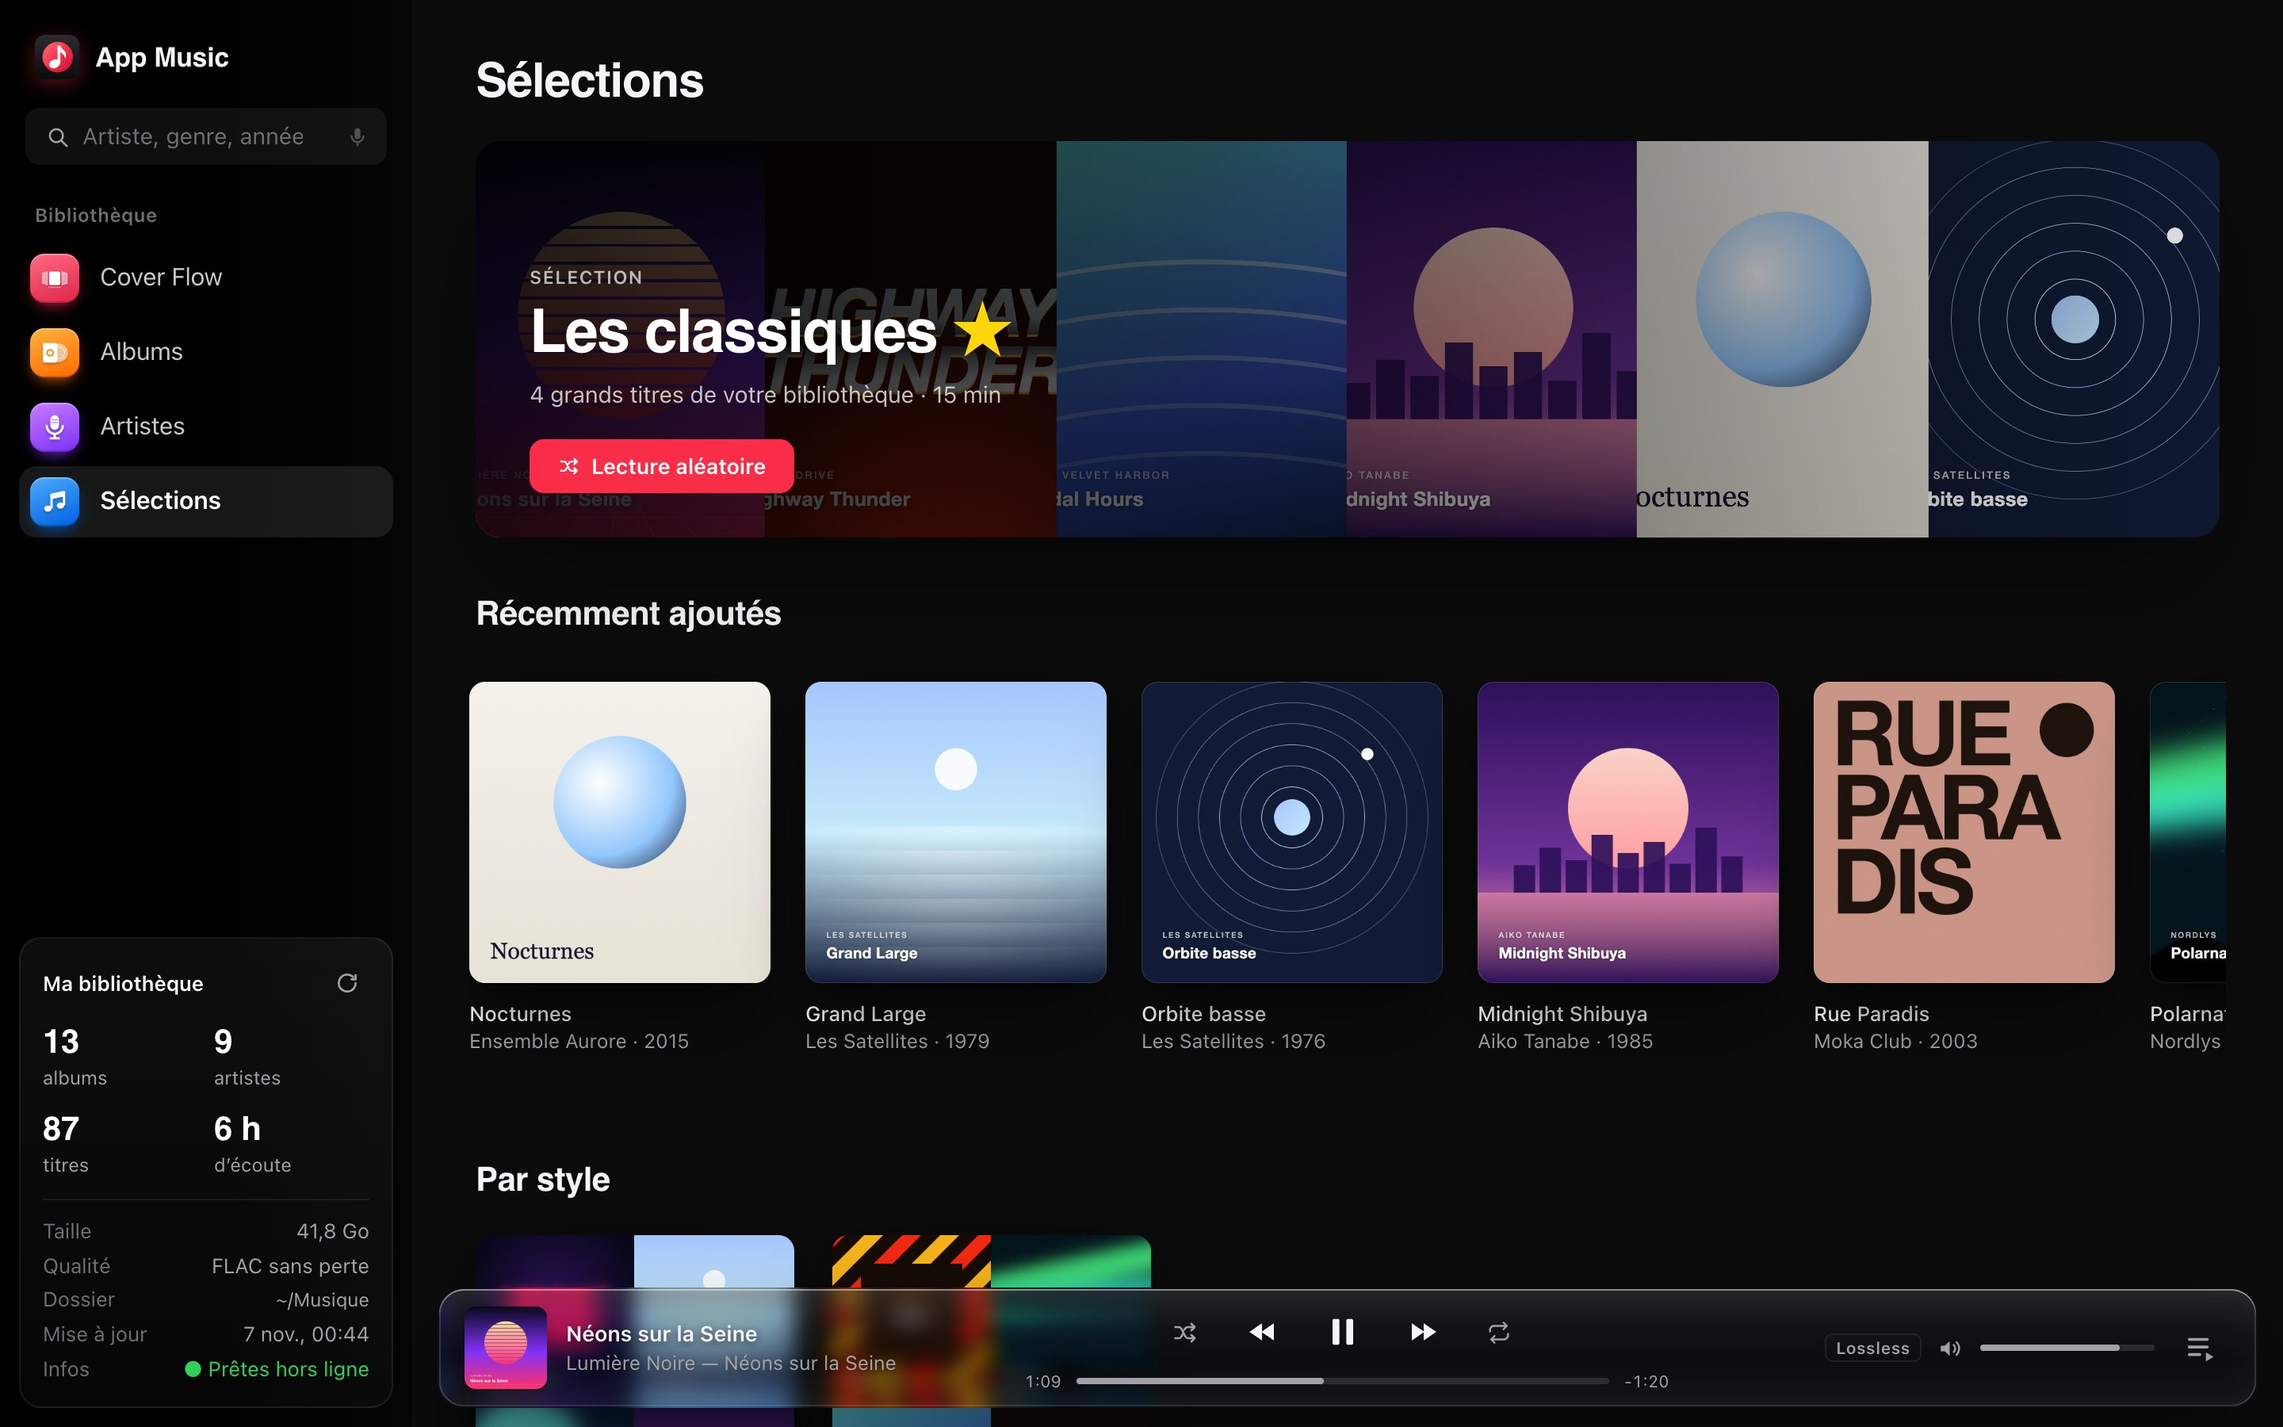
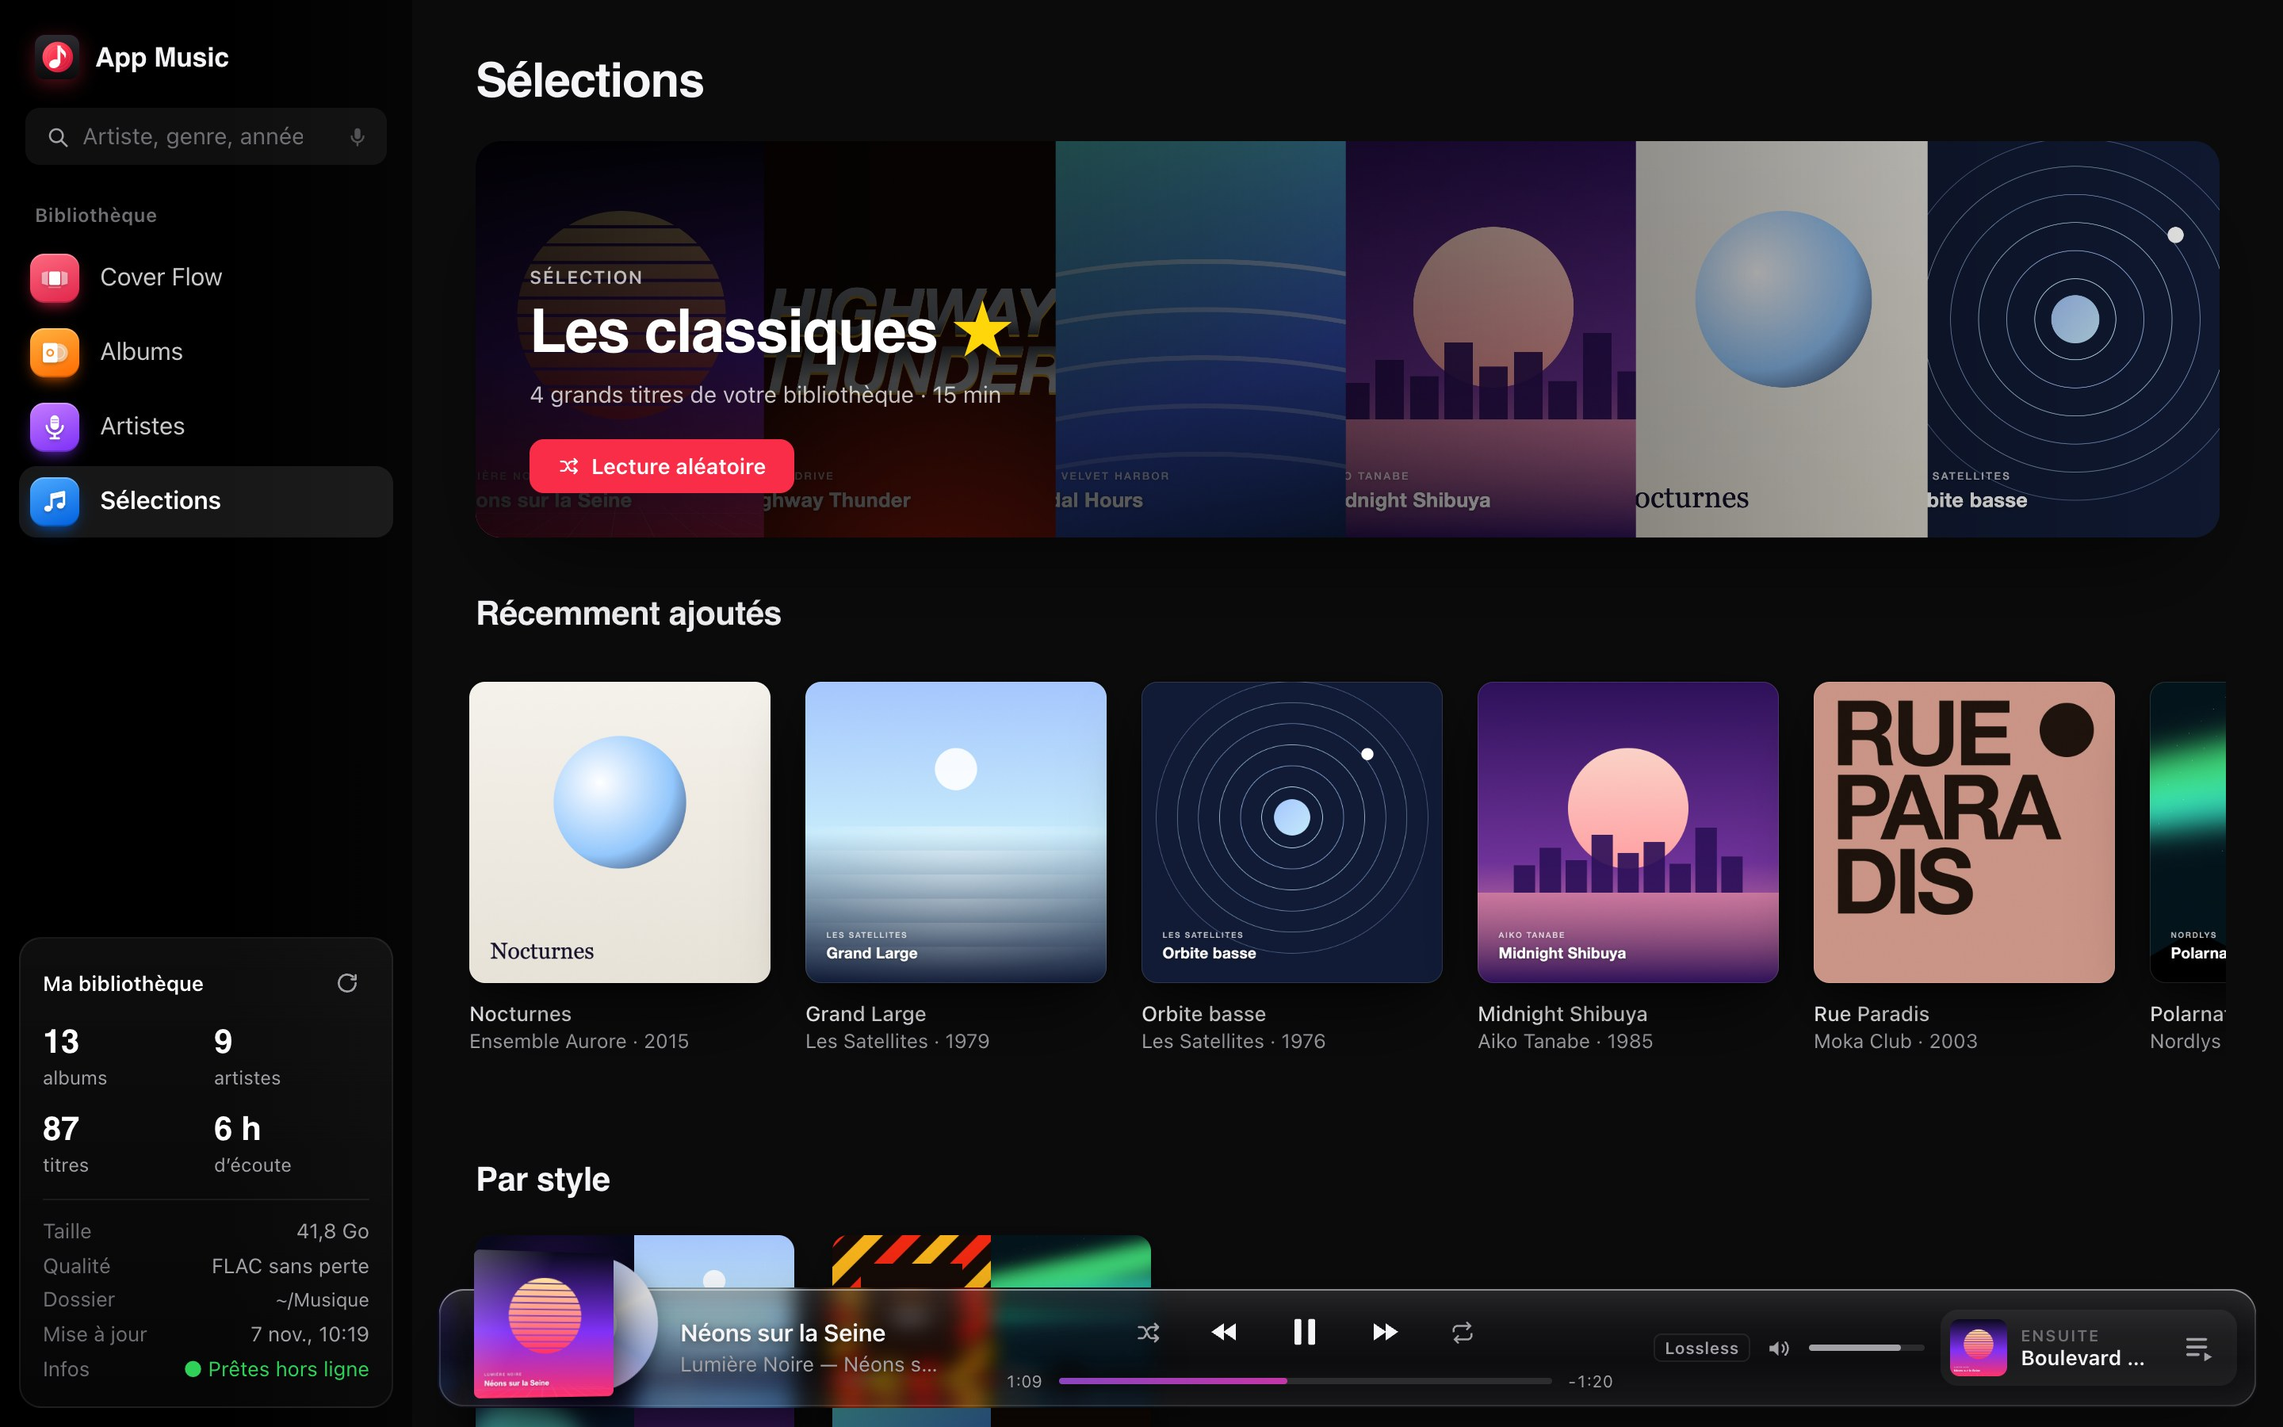
Nouveau lecteur : boîtier CD qui dépasse, progression aux couleurs de la pochette, carte « Ensuite »

diff --git a/public/app.js b/public/app.js
@@ -53,6 +53,42 @@ async function loadLibrary() {
   return r;
 }
 
+// ---------- Deux couleurs vives d'une pochette (haut / bas), pour la barre de progression ----------
+const gradCache = new Map();
+function vivid([r, g, b]) {
+  // garde la teinte, pousse saturation et luminosité pour rester visible sur le verre sombre
+  const mx = Math.max(r, g, b), mn = Math.min(r, g, b), l = (mx + mn) / 2;
+  const k = l < 1 ? 1 : 1 + Math.max(0, 0.6 - (mx - mn) / Math.max(mx, 1));
+  let c = [r, g, b].map((v) => l + (v - l) * k);
+  const top = Math.max(...c); if (top < 190) c = c.map((v) => v * 190 / Math.max(top, 1));
+  return c.map((v) => Math.max(0, Math.min(255, Math.round(v))));
+}
+function coverGradient(albumId) {
+  if (gradCache.has(albumId)) return gradCache.get(albumId);
+  const p = new Promise((res) => {
+    const img = new Image();
+    img.onload = () => {
+      const c = document.createElement('canvas'); c.width = c.height = 24;
+      const x = c.getContext('2d', { willReadFrequently: true }); x.drawImage(img, 0, 0, 24, 24);
+      const d = x.getImageData(0, 0, 24, 24).data;
+      const half = (from, to) => {
+        let r = 0, g = 0, b = 0, w = 0;
+        for (let i = from * 96; i < to * 96; i += 4) {
+          const mx = Math.max(d[i], d[i + 1], d[i + 2]), mn = Math.min(d[i], d[i + 1], d[i + 2]);
+          const wt = 0.05 + ((mx - mn) / 255) ** 2 * (mx > 40 ? 4 : 0.5);
+          r += d[i] * wt; g += d[i + 1] * wt; b += d[i + 2] * wt; w += wt;
+        }
+        return vivid([r / w, g / w, b / w]);
+      };
+      res([half(0, 12), half(12, 24)]);
+    };
+    img.onerror = () => res([[161, 161, 166], [161, 161, 166]]);
+    img.src = cover(albumId);
+  });
+  gradCache.set(albumId, p);
+  return p;
+}
+
 // ---------- Couleur dominante d'une pochette ----------
 const colorCache = new Map();
 function dominant(albumId) {
@@ -870,7 +906,7 @@ $('#b-shuffle').onclick = () => {
   }
   syncButtons(); renderQueue();
 };
-$('#b-repeat').onclick = () => { player.repeat = { off: 'all', all: 'one', one: 'off' }[player.repeat]; store.set('repeat', player.repeat); syncButtons(); };
+$('#b-repeat').onclick = () => { player.repeat = { off: 'all', all: 'one', one: 'off' }[player.repeat]; store.set('repeat', player.repeat); syncButtons(); renderNext(); };
 function syncButtons() {
   $('#b-shuffle').classList.toggle('on', player.shuffle);
   const r = $('#b-repeat'); r.classList.toggle('on', player.repeat !== 'off'); r.classList.toggle('one', player.repeat === 'one');
@@ -881,6 +917,8 @@ let npBg = 0;
 function updateNowPlaying(t) {
   const a = A.get(t.albumId);
   $('#p-cover').src = cover(t.albumId);
+  document.body.classList.add('has-track');
+  coverGradient(t.albumId).then(([c1, c2]) => { if (player.current !== t.id) return; const pl = $('#player'); pl.style.setProperty('--pc1', c1.join(' ')); pl.style.setProperty('--pc2', c2.join(' ')); });
   $('#p-title').textContent = t.title;
   $('#p-sub').textContent = `${t.artist} — ${t.album}`;
   const fmt = t.lossless && t.bits ? `Lossless · ${t.bits} bits/${(t.rate / 1000).toLocaleString('fr-FR')} kHz` : t.codec;
@@ -910,7 +948,17 @@ if ('mediaSession' in navigator) {
 }
 
 // File d'attente
+// carte « Ensuite » du lecteur : le prochain titre de la file
+function renderNext() {
+  const nextPos = player.pos + 1 < player.order.length ? player.pos + 1 : player.repeat === 'all' && player.order.length > 1 ? 0 : -1;
+  const t = nextPos >= 0 ? T.get(player.queue[player.order[nextPos]]) : null;
+  $('#p-next').classList.toggle('empty', !t);
+  $('#p-next-title').textContent = t ? t.title : player.queue.length ? 'Fin de la file' : 'Rien en attente';
+  $('#p-next-title').title = t ? `${t.title} — ${t.artist}` : '';
+  const img = $('#p-next-cover'); if (t) img.src = cover(t.albumId); else img.removeAttribute('src');
+}
 function renderQueue() {
+  renderNext();
   const box = $('#queue-list'); if (!player.queue.length) { $('#q-clear').hidden = true; box.innerHTML = '<div class="empty">Rien en attente.<br><small>Glissez des titres ou des albums ici.</small></div>'; return; }
   const item = (i) => { const t = T.get(player.queue[player.order[i]]); return `<div class="q-item ${i === player.pos ? 'current' : ''}" data-q="${i}" tabindex="0"${i > player.pos ? ' draggable="true"' : ''}><img loading="lazy" src="${cover(t.albumId)}" alt=""><div><b>${esc(t.title)}</b><span>${esc(t.artist)}</span></div>${i > player.pos ? `<button class="q-remove" data-remove="${i}" title="Retirer de la file (Suppr)" aria-label="Retirer de la file"><svg viewBox="0 0 24 24"><path d="m7 7 10 10M17 7 7 17" stroke="currentColor" stroke-width="2.2" stroke-linecap="round"/></svg></button>` : ''}</div>`; };
   const upcoming = player.order.slice(player.pos + 1, player.pos + 101).map((_, k) => item(player.pos + 1 + k)).join('');
@@ -982,6 +1030,7 @@ function removeFromQueue(i) {
 }
 $('#b-queue').onclick = () => { const open = $('#queue').classList.toggle('open'); $('#b-queue').classList.toggle('on'); if (open && nav.usingKeys) setTimeout(() => { nav.makeFocusable($('#queue')); nav.focusEl($('#queue .q-item.current') || $('#q-close')); }, 50); };
 $('#q-clear').onclick = () => player.clearUpcoming();
+$('#p-next').onclick = (e) => { if (!e.target.closest('#b-queue')) $('#b-queue').click(); };
 $('#q-close').onclick = () => { $('#queue').classList.remove('open'); $('#b-queue').classList.remove('on'); };
 
 // Plein écran « À l'écoute »

diff --git a/public/styles.css b/public/styles.css
@@ -273,15 +273,29 @@ main:has(.flow) { padding-bottom: 0; overflow: hidden; }
   position: fixed; left: calc(var(--sidebar-w) + 16px); right: 16px; bottom: 12px; height: var(--player-h);
   background: rgba(20, 20, 22, .42); backdrop-filter: blur(22px) saturate(170%); -webkit-backdrop-filter: blur(22px) saturate(170%);
   border: 1px solid rgba(255, 255, 255, .09); border-radius: 16px; box-shadow: 0 20px 50px -14px rgba(0, 0, 0, .7), inset 0 1px 0 rgba(255, 255, 255, .07);
-  display: grid; grid-template-columns: 1fr minmax(320px, 1.3fr) 1fr; align-items: center; gap: 18px; padding: 0 16px 0 10px; z-index: 20;
+  display: grid; grid-template-columns: 1fr minmax(320px, 1.3fr) 1fr; align-items: center; gap: 18px; padding: 0 12px 0 16px; z-index: 20;
 }
 .p-now { display: flex; align-items: center; gap: 12px; min-width: 0; cursor: pointer; border-radius: 10px; padding: 6px; transition: background .2s; }
 .p-now:hover { background: var(--hover); }
-.p-art { width: 52px; height: 52px; border-radius: 7px; overflow: hidden; background: var(--bg-2); flex: none; box-shadow: 0 4px 12px -4px rgba(0, 0, 0, .35); }
+/* boîtier CD qui dépasse du lecteur ; le disque sort en tournant pendant la lecture */
+.p-case { position: relative; width: 118px; height: 56px; flex: none; perspective: 600px; }
+.p-art { position: absolute; left: 0; bottom: -4px; width: 94px; height: 94px; border-radius: 4px; overflow: hidden; background: var(--bg-2); transform: rotateY(18deg); transform-origin: left;
+  box-shadow: 10px 14px 28px -6px rgba(0, 0, 0, .75), inset 5px 0 0 rgba(255, 255, 255, .15); transition: transform .5s var(--ease); }
+.p-art::after { content: ""; position: absolute; inset: 0; background: linear-gradient(115deg, rgba(255, 255, 255, .26), transparent 40%); pointer-events: none; }
 .p-art img { width: 100%; height: 100%; object-fit: cover; }
+.p-art img:not([src]), .p-art img[src=""] { visibility: hidden; }
+.p-now:hover .p-art { transform: rotateY(10deg) translateY(-3px); }
+.p-cd { position: absolute; left: 6px; bottom: 0; width: 86px; height: 86px; border-radius: 50%; opacity: 0;
+  background: conic-gradient(from 30deg, #ddd, #9ad, #fbe, #dfd, #ccc, #9ad, #ddd); box-shadow: 0 6px 16px rgba(0, 0, 0, .5);
+  animation: cd-spin 4s linear infinite paused; transition: left .7s var(--ease), opacity .4s; }
+.p-cd::after { content: ""; position: absolute; left: 50%; top: 50%; width: 20px; height: 20px; margin: -10px; border-radius: 50%; background: #12161b; box-shadow: 0 0 0 7px rgba(255, 255, 255, .55); }
+.has-track .p-cd { opacity: 1; }
+.is-playing .p-cd { left: 30px; animation-play-state: running; }
+@keyframes cd-spin { to { transform: rotate(360deg); } }
+@media (prefers-reduced-motion: reduce) { .p-cd { animation: none; } }
 .p-meta { min-width: 0; }
-.p-title { font-size: 13.5px; font-weight: 600; white-space: nowrap; overflow: hidden; text-overflow: ellipsis; }
-.p-sub { font-size: 12.5px; color: var(--text-2); white-space: nowrap; overflow: hidden; text-overflow: ellipsis; }
+.p-title { font-size: 15px; letter-spacing: -.01em; font-weight: 600; white-space: nowrap; overflow: hidden; text-overflow: ellipsis; }
+.p-sub { font-size: 13px; color: var(--text-2); white-space: nowrap; overflow: hidden; text-overflow: ellipsis; }
 .p-center { display: flex; flex-direction: column; align-items: center; gap: 4px; }
 .p-controls { display: flex; align-items: center; gap: 16px; }
 .icon-btn { width: 32px; height: 32px; display: grid; place-items: center; border-radius: 50%; color: var(--text); transition: transform .15s, color .2s, background .2s; position: relative; }
@@ -309,7 +323,19 @@ main:has(.flow) { padding-bottom: 0; overflow: hidden; }
 .slider:hover .slider-knob, .slider.drag .slider-knob { opacity: 1; transform: scale(1); }
 .p-right { display: flex; align-items: center; justify-content: flex-end; gap: 10px; }
 .vol-ic { width: 17px; height: 17px; color: var(--text-2); flex: none; }
-.slider.vol { flex: 0 1 110px; }
+.slider.vol { flex: 0 1 90px; min-width: 50px; }
+/* progression aux couleurs de la pochette (--pc1 → --pc2, calculées dans app.js) */
+#seek .slider-fill { background: linear-gradient(90deg, rgb(var(--pc1, 161 161 166)), rgb(var(--pc2, 161 161 166))); }
+/* « Ensuite » : le prochain titre, un clic ouvre la file */
+.p-next { display: flex; align-items: center; gap: 9px; padding: 5px 4px 5px 6px; border-radius: 11px; background: rgba(255, 255, 255, .06); flex: 0 1 230px; min-width: 170px; cursor: pointer; transition: background .2s; }
+.p-next:hover { background: rgba(255, 255, 255, .11); }
+.p-next img { width: 36px; height: 36px; border-radius: 6px; object-fit: cover; flex: none; background: var(--bg-2); }
+.p-next img:not([src]), .p-next img[src=""] { display: none; }
+.p-next-meta { min-width: 0; flex: 1; line-height: 1.25; }
+.p-next-meta small { display: block; font-size: 10px; font-weight: 600; letter-spacing: .08em; text-transform: uppercase; color: var(--text-3); }
+.p-next-meta b { display: block; font-size: 13px; font-weight: 600; white-space: nowrap; overflow: hidden; text-overflow: ellipsis; }
+.p-next.empty b { color: var(--text-2); font-weight: 500; }
+@media (max-width: 1250px) { .p-next-meta, .p-next img, #p-format { display: none; } .p-next { background: none; padding: 0; } }
 #p-format:empty { display: none; }
 
 /* ---------- Lecture en cours (plein écran) ---------- */

diff --git a/tests/ui.test.js b/tests/ui.test.js
@@ -72,6 +72,24 @@ describe('interface', { skip: !executablePath && 'aucun navigateur Chromium trou
     await page.waitForFunction(() => document.body.classList.contains('paused'));
   });
 
+  test('lecteur : boîtier avec CD, progression aux couleurs de la pochette, carte « Ensuite »', async () => {
+    const titles = ['Minuit pile', 'Boulevard désert', 'Néons', 'Aube'];
+    const cur = await page.textContent('#p-title');
+    assert.equal(await page.textContent('#p-next-title'), titles[titles.indexOf(cur) + 1]);
+    assert.equal(await page.$eval('#p-next-cover', (i) => i.getAttribute('src')?.length > 0), true);
+    // CD présent (un titre est chargé) et rangé dans le boîtier à la pause
+    assert.equal(await page.$eval('.p-cd', (e) => getComputedStyle(e).opacity), '1');
+    await page.waitForFunction(() => getComputedStyle(document.querySelector('.p-cd')).left === '6px', null, { timeout: 3000 });
+    // pochette rouge du disque de test → dégradé rouge
+    await page.waitForFunction(() => document.querySelector('#player').style.getPropertyValue('--pc1'));
+    const [r, g, b] = (await page.$eval('#seek .slider-fill', (e) => getComputedStyle(e).backgroundImage)).match(/rgb\((\d+), (\d+), (\d+)/).slice(1).map(Number);
+    assert.ok(r > g + 60 && r > b + 60, `rouge attendu, obtenu rgb(${r}, ${g}, ${b})`);
+    // un clic sur la carte ouvre « À suivre »
+    await page.click('#p-next-title');
+    await page.waitForFunction(() => document.querySelector('#queue').classList.contains('open'));
+    await page.click('#q-close');
+  });
+
   test('« À suivre » : glisser un titre, un album, réorganiser, vider, garder au rechargement', async () => {
     await go(`#/album/${album('Nuit Blanche').id}`, '.tracklist tr[data-track]');
     await page.click('.tracklist tr[data-track]'); await sleep(300); await page.click('#b-play');

diff --git a/public/index.html b/public/index.html
@@ -42,7 +42,7 @@
 
   <footer class="player" id="player">
     <div class="p-now" id="p-now" title="Afficher la lecture en cours" tabindex="0" role="button">
-      <div class="p-art"><img id="p-cover" alt=""></div>
+      <div class="p-case" aria-hidden="true"><div class="p-cd"></div><div class="p-art"><img id="p-cover" alt=""></div></div>
       <div class="p-meta">
         <div class="p-title" id="p-title">Aucune lecture</div>
         <div class="p-sub" id="p-sub">Choisissez un album</div>
@@ -66,7 +66,11 @@
       <span class="badge" id="p-format"></span>
       <svg class="vol-ic" viewBox="0 0 24 24"><path d="M3 9.5h3.5L11 5.5v13l-4.5-4H3z" fill="currentColor"/><path d="M14.5 8.8a4.5 4.5 0 0 1 0 6.4M17 6.3a8 8 0 0 1 0 11.4" fill="none" stroke="currentColor" stroke-width="1.7" stroke-linecap="round"/></svg>
       <div class="slider vol" id="volume" tabindex="0" role="slider" aria-label="Volume"><div class="slider-fill"></div><div class="slider-knob"></div></div>
-      <button class="icon-btn small" id="b-queue" title="À suivre"><svg viewBox="0 0 24 24"><path d="M4 6h12M4 11h12M4 16h7" stroke="currentColor" stroke-width="1.9" stroke-linecap="round"/><path d="M15 14.5v6l5-3z" fill="currentColor"/></svg></button>
+      <div class="p-next" id="p-next" title="Ouvrir « À suivre »">
+        <img id="p-next-cover" alt="">
+        <div class="p-next-meta"><small>Ensuite</small><b id="p-next-title">Rien en attente</b></div>
+        <button class="icon-btn small" id="b-queue" title="À suivre"><svg viewBox="0 0 24 24"><path d="M4 6h12M4 11h12M4 16h7" stroke="currentColor" stroke-width="1.9" stroke-linecap="round"/><path d="M15 14.5v6l5-3z" fill="currentColor"/></svg></button>
+      </div>
     </div>
   </footer>
 
